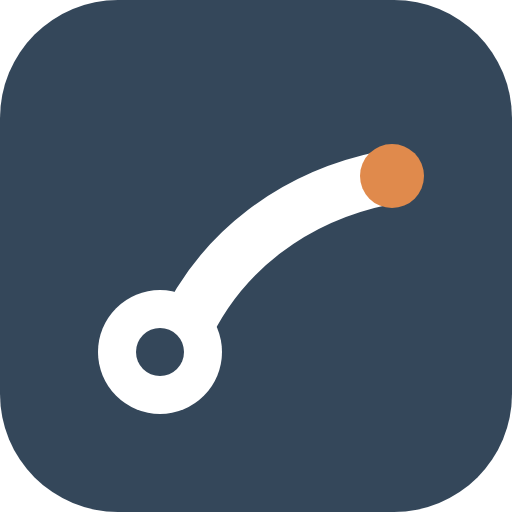
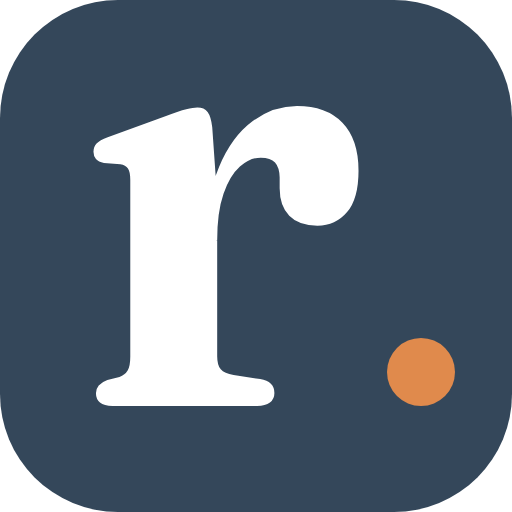
Add files via upload

Changed region(s): [[0.1562, 0.1875, 0.8438, 0.8125], [0.75, 0.6562, 0.9062, 0.8125]]

diff --git a/reda/index.html b/reda/index.html
@@ -844,7 +844,7 @@ body.kodad{padding-bottom:110px}@media(min-width:1021px){body.kodad{padding-bott
 <div id="figFull" hidden role="dialog" aria-modal="true" aria-label="Figuren i helskärm"><button type="button" id="ffStang" aria-label="Stäng">×</button><div class="ff-inne"></div></div>
 <div id="intro" hidden role="dialog" aria-modal="true" aria-label="Så fungerar din plan">
   <div class="in-kort">
-    <div class="in-topp"><img src="/bilder/reda/mark.svg" alt="" class="reda-mini"><span class="in-steg" id="inStegTxt"></span><button type="button" id="inHoppa" class="in-hoppa">Hoppa över</button></div>
+    <div class="in-topp"><span class="reda-logo"><img src="/bilder/reda/mark.svg" alt="" class="reda-logo-mark"><img src="/bilder/reda/wordmark.svg" alt="Reda" class="reda-logo-ord"></span><span class="in-steg" id="inStegTxt"></span><button type="button" id="inHoppa" class="in-hoppa">Hoppa över</button></div>
     <div class="in-bild" id="inBild"></div>
     <div class="in-inne">
       <div class="in-prickar" id="inPrickar"></div>
@@ -1767,7 +1767,7 @@ document.querySelectorAll('a[href="https://www.bokadirekt.se/places/kansei-rehab
     var n=document.getElementById('inNasta'); n.textContent=(i===INTRO.length-1)?'Jag förstår, visa planen':'Nästa';
     document.getElementById('inHoppa').hidden=false;
   }
-  function introStang(){try{localStorage.setItem('kanseiValk_'+__patKod,'1')}catch(x){} document.getElementById('intro').hidden=true; document.body.classList.remove('intro-oppen'); var st=document.getElementById('startaPass'); if(st)st.focus();}
+  function introStang(){try{localStorage.setItem('kanseiValk_'+__patKod,'1')}catch(x){} document.getElementById('intro').hidden=true; document.body.classList.remove('intro-oppen'); var st=document.getElementById('startaPass'); if(st&&st.offsetParent)st.focus(); else {var st2=document.querySelector('.pl-start'); if(st2)st2.focus();}}
   function ppFigurer(){
     document.querySelectorAll('.pp-fig[data-ark]').forEach(function(f){ if(f.querySelector('svg'))return; if(!window.__ovIkonArketyp){setTimeout(ppFigurer,60);return} f.innerHTML=window.__ovIkonArketyp(f.getAttribute('data-ark'),200); if(window.__figSkan)window.__figSkan(f); });
   }
@@ -2126,7 +2126,7 @@ document.querySelectorAll('a[href="https://www.bokadirekt.se/places/kansei-rehab
     var __ket=document.querySelector('.mp-huvud2 .kodetikett');
     var __gN=document.getElementById('mpNamn'); if(__gN)__gN.remove();
     if(__patNamn){
-      __ket.innerHTML=document.body.classList.contains('bibliotek')?'<img src="/bilder/reda/mark.svg" alt="" class="reda-mini"> Reda · klinik':'<img src="/bilder/reda/mark.svg" alt="" class="reda-mini"> Reda';
+      __ket.innerHTML='<span class="reda-logo"><img src="/bilder/reda/mark.svg" alt="" class="reda-logo-mark"><img src="/bilder/reda/wordmark.svg" alt="Reda" class="reda-logo-ord"></span>'+(document.body.classList.contains('bibliotek')?'<span class="reda-logo-till">· klinik</span>':'');
       var nEl=document.createElement('p'); nEl.id='mpNamn'; nEl.className='mp-inject'; nEl.textContent='för '+__patNamn;
       var h2El=document.getElementById('mp-titel');
       h2El.parentNode.insertBefore(nEl, h2El.nextSibling);
@@ -4386,8 +4386,8 @@ body.kodad[data-flik="oversikt"] #passBar,body.kodad[data-flik="oversikt"] #pass
   var POSER={
     brygga:function(){return {prof:'hall',dur:7,tree:[
       N(4,200,{id:'neck'},[N(5,205,{head:1},[blick(-90)])]),
-      N(10,40,{id:'uaR'},[N(9,0,{},[N(3,0,{})])]),
-      N(10,46,{id:'uaL',bak:1},[N(9,2,{bak:1})]),
+      N(10,12,{id:'uaR'},[N(9,0,{},[N(3,0,{})])]),
+      N(10,16,{id:'uaL',bak:1},[N(9,2,{bak:1})]),
       N(20,-4,{id:'torso',torso:1,acc:1},[
         N(16,-12,{id:'thR',acc:1},[N(16,138,{id:'shR'},[N(6,0,{}),N(2.5,180,{})])]),
         N(16,-10,{id:'thL',bak:1},[N(16,136,{id:'shL',bak:1},[N(6,0,{bak:1})])])
@@ -4410,14 +4410,13 @@ body.kodad[data-flik="oversikt"] #passBar,body.kodad[data-flik="oversikt"] #pass
     sidoplanka:function(){return {prof:'lang',dur:9,extra:function(){return '<rect class="rekv" x="30" y="-3" width="16" height="4" rx="2" fill="#E6D7C3" stroke="none"/>'},ey:[-38,0],tree:[
       N(10,0,{id:'faR'},[N(3,0,{})]),
       N(12,-90,{id:'uaR'},[
-        N(4,176,{id:'neck'},[N(5,178,{head:1},[blick2(-30)])]),
-        N(10,-72,{id:'uaL',bak:1},[N(9,-88,{id:'faL',bak:1})]),
+        N(4,172,{id:'neck'},[N(5,174,{head:1},[blick2(-30)])]),
         N(20,24,{id:'torso',torso:1,acc:1},[
           N(16,14,{id:'thR',acc:1},[N(16,0,{id:'shR'},[N(6,0,{})])]),
           N(16,12,{id:'thL',bak:1},[N(16,-2,{id:'shL',bak:1},[N(6,-2,{bak:1})])])
         ])
       ])
-    ],anim:{torso:4,thR:41,thL:39,shR:0,shL:-2,neck:184,uaL:-78}}},
+    ],anim:{torso:4,thR:41,thL:39,shR:0,shL:-2,neck:182}}},
     utfall:function(){return {prof:'hall',dur:7,extra:function(){return '<rect class="rekv" x="-24" y="-3" width="14" height="4" rx="2" fill="#E6D7C3" stroke="none"/>'},ex:[-30,8],tree:standT({shR:-84,thR:178,thL:96,shL:180,ftL:180,torso:-84,uaR:60,faR:30,uaL:100,faL:60,gaze:0}),anim:{shR:-70,thR:184,thL:108,shL:180,ftL:180,torso:-88}}},
     uppresning:function(){return {prof:'hall',dur:8,extra:function(){var hx=-14.5,hy=-14.5;return '<path class="rekv" d="M'+(hx-12)+' '+(hy+3)+' L'+(hx+2)+' '+(hy+3)+' M'+(hx-12)+' '+(hy+3)+' L'+(hx-12)+' '+(hy-20)+' M'+(hx-10)+' '+(hy+3)+' L'+(hx-10)+' 0"/>'},ex:[-28,0],ey:[-36,0],
       tree:standT({shR:-85,thR:175,shL:-85,thL:177,torso:-78,uaR:60,faR:10,uaL:100,faL:20,gaze:20}),anim:{shR:-90,thR:-90,shL:-90,thL:-90,torso:-90,uaR:80,faR:85,ftL:0}}},
@@ -4443,18 +4442,18 @@ body.kodad[data-flik="oversikt"] #passBar,body.kodad[data-flik="oversikt"] #pass
       N(20,-90,{id:'torso',torso:1},[N(10,100,{id:'uaL',bak:1},[N(9,95,{bak:1})]),huvud(-90,0),N(10,80,{id:'uaR'},[N(9,85,{id:'faR'})])])
     ])])])],anim:{ftR:200,shR:-90}}},
     rotband:function(){return {prof:'hall',dur:6,tree:standT({uaR:90,faR:0,hand:0,accR:1,xR:'<line class="acc" x1="3" y1="0" x2="26" y2="0" stroke-dasharray="3 3"/><circle class="acc" cx="28" cy="0" r="2.5"/>'}),anim:{faR:-32}}},
-    skuldersatt:function(){return {prof:'lang',dur:8,tree:standT({uaR:82,faR:88,uaL:98,faL:92,gaze:0}),anim:{uaR:88,uaL:104},extra:function(){return '<g class="markor" transform="translate(-6 -50)"><path class="acc" d="M0 -6 L0 6 M-4 2 L0 6 L4 2"/></g><g class="markor" transform="translate(-13 -46)"><path class="acc" d="M4 -4 L-4 4 M-4 -1 L-4 4 L1 4"/></g>'}}},
+    skuldersatt:function(){return {prof:'lang',dur:8,tree:standT({torso:-84,neck:-72,uaR:78,faR:86,uaL:94,faL:92,gaze:0,accR:1}),anim:{torso:-92,neck:-96,uaR:96,uaL:106}}},
     framatlyft:function(){return {prof:'hall',dur:7,tree:standT({uaR:85,faR:85,accR:1}),anim:{uaR:-15,faR:-15}}},
-    vagglid:function(){return {prof:'hall',dur:7,extra:function(){return '<line class="rekv acc" x1="30" y1="-70" x2="30" y2="0"/>'},ex:[-12,30],ey:[-70,0],tree:standT({uaR:-38,faR:-88,hand:-88,accR:1,uaL:-36,faL:-88}),anim:{uaR:-62,faR:-88,uaL:-60,faL:-88}}},
+    vagglid:function(){return {prof:'hall',dur:7,extra:function(){return '<rect class="rekv" x="12" y="-72" width="5" height="72" fill="#D5DCE1" stroke="none"/>'},ex:[-12,20],ey:[-72,0],tree:standT({torso:-88,uaR:-8,faR:-92,hand:-92,accR:1,uaL:-4,faL:-92,gaze:-10}),anim:{torso:-84,uaR:-52,faR:-92,uaL:-48,faL:-92}}},
     vaggklattring:function(){return {prof:'lang',dur:9,extra:function(){return '<line class="rekv acc" x1="30" y1="-70" x2="30" y2="0"/>'},ex:[-12,30],ey:[-70,0],tree:standT({uaR:-30,faR:-72,hand:-72,accR:1,uaL:105,faL:100}),anim:{uaR:-68,faR:-88}}},
     pendel:function(){return {prof:'jamn',dur:2.6,extra:function(){return '<path class="rekv" d="M8 -30 L34 -30 L34 0"/>'},ex:[-10,34],ey:[-52,0],tree:standT({torso:-35,neck:-40,gaze:60,uaL:20,faL:75,uaR:78,faR:78,accR:1}),anim:{uaR:102,faR:102}}},
     pinne:function(){return {prof:'hall',dur:7,tree:standT({uaR:90,faR:0,hand:0,accR:1,uaL:90,faL:0,xR:'<line class="acc" x1="-16" y1="-1" x2="22" y2="-1"/>'}),anim:{faR:-28}}},
     handduk:function(){return {prof:'hall',dur:7,tree:standT({uaR:-115,faR:70,hand:70,uaL:110,faL:-100,accR:1,xL:'<line class="acc" x1="0" y1="0" x2="-20" y2="-16"/>'}),anim:{uaL:100,faL:-96}}},
-    nacke:function(){return {prof:'hall',dur:5.5,tree:standT({neck:-84,gaze:0}),anim:{neck:-98},extra:function(){return '<g class="markor" transform="translate(-16 -63)"><path class="acc" d="M8 0 L-6 0 M-2 -4 L-6 0 L-2 4"/></g>'},ex:[-24,10]}},
+    nacke:function(){return {prof:'hall',dur:5.5,tree:standT({neck:-70,gaze:0,uaR:95,faR:95,uaL:100,faL:100}),anim:{neck:-100},ex:[-24,10]}},
     nick:function(){return {prof:'hall',dur:7,tree:[N(4,180,{id:'neck'},[N(5,180,{head:1},[blick(-90)])]),supine({})],anim:{neck:166}}},
     andning:function(){return {prof:'andas',dur:10,tree:[N(4,180,{id:'neck'},[N(5,180,{head:1},[blick(-90)])]),supine({})],anim:{},extra:function(){return '<g transform="translate(10 0)" data-anim=\'{"kind":"scale","a0":1,"a1":1.5}\'><path class="rekv acc" d="M-8 -1 q8 -9 16 0"/></g>'}}},
     rodd:function(){return {prof:'hall',dur:5,tree:standT({uaR:0,faR:0,hand:0,accR:1,uaL:0,faL:0,xR:'<line class="acc" x1="3" y1="0" x2="26" y2="0" stroke-dasharray="3 3"/>'}),anim:{uaR:55,faR:-5,uaL:55,faL:-5}}},
-    brostrot:function(){return {prof:'hall',dur:7,ex:[-10,40],ey:[-42,0],tree:[quadTree({accArm:1,gaze:-60})],anim:{uaR:195,faR:195}}},
+    brostrot:function(){return {prof:'hall',dur:7,ex:[-10,40],ey:[-48,0],tree:[quadTree({accArm:1,uaR:70,faR:-127,gaze:-40})],anim:{uaR:-70,faR:110,neck:150}}},
     fotboll:function(){return {prof:'jamn',dur:5,extra:function(){var hx=-14.5,hy=-14.5;return '<path class="rekv" d="M'+(hx-12)+' '+(hy+3)+' L'+(hx+2)+' '+(hy+3)+' M'+(hx-12)+' '+(hy+3)+' L'+(hx-12)+' '+(hy-20)+' M'+(hx-10)+' '+(hy+3)+' L'+(hx-10)+' 0"/>'},ex:[-28,0],ey:[-36,0],
       tree:[N(16,-85,{id:'shL',bak:1},[N(16,175,{id:'thL',bak:1},[
         N(16,10,{id:'thR'},[N(16,78,{id:'shR',acc:1},[N(6,0,{acc:1,x:'<circle class="acc" cx="3" cy="5" r="5.5"/>'})])]),
@@ -5572,7 +5571,7 @@ html.i-ram .wrap{padding-top:0}
 @media(max-width:560px){.reda-hero .reda-mark{width:54px;height:54px}.reda-hero .reda-ordbild{height:2.6rem}.reda-tag{font-size:1.25rem}}
 .reda-by{display:none}
 .reda-lockup{display:flex;align-items:center;gap:14px;margin:0 0 6px}
-.reda-mark{width:52px;height:52px;border-radius:12px;box-shadow:0 4px 14px rgba(13,123,111,.25)}
+.reda-mark{width:52px;height:52px;border-radius:12px;box-shadow:0 4px 14px rgba(52,71,90,.22)}
 .reda-ord{margin:0!important;font-family:var(--display);font-weight:500;font-size:2.6rem;letter-spacing:-.02em;line-height:1;display:flex;align-items:baseline}
 .reda-punkt{display:inline-block;width:.22em;height:.22em;border-radius:50%;background:var(--teal);margin-left:.06em;transform:translateY(-.02em)}
 .reda-by{font-family:var(--mono);font-size:.62rem;letter-spacing:.2em;text-transform:uppercase;color:var(--dim);align-self:flex-end;padding-bottom:6px}
@@ -5970,6 +5969,44 @@ body.kodad:not(.bibliotek) .aktiv details[data-ovid] .ov-figrad .ovfig{width:72p
 .pl-spelvisa span{background:rgba(52,71,90,.9)}
 .ff-knapp.pa{background:#E08A4C;border-color:#E08A4C;color:#fff}
 .ff-inne .pl-cue[data-fas="upp"]{background:#F0A46A;color:#1B2E38}
+</style>
+
+
+<style id="v118-intro-kort">
+.reda-logo{display:inline-flex;align-items:center;gap:.4em;vertical-align:middle;line-height:1}
+.reda-logo-mark{width:26px;height:26px;border-radius:7px;display:block}
+.reda-logo-ord{height:19px;width:auto;display:block;transform:translateY(2px)}
+.reda-logo-till{font-family:var(--mono);font-size:.62rem;letter-spacing:.12em;text-transform:uppercase;color:var(--dim);margin-left:8px}
+.kodetikett{display:flex;align-items:center;gap:6px}
+/* introt: ett format, innehållet rättar sig */
+.in-kort{height:min(640px,calc(100dvh - 48px));display:grid!important;grid-template-rows:auto 200px 1fr;overflow:hidden}
+.in-topp{height:52px;box-sizing:border-box;align-items:center}
+.in-topp .in-steg{flex:1;margin-left:10px}
+.in-bild{margin:0!important;border-radius:0!important;background:#1B2E38!important;padding:10px 28px!important;display:flex;align-items:center;justify-content:center;height:200px;box-sizing:border-box}
+.in-bild svg{max-width:300px;height:100%;width:auto}
+.in-bild svg .lem,.in-bild svg .torso{stroke:#EEF2F5!important}
+.in-bild svg circle.huvud{fill:#EEF2F5!important;stroke:#EEF2F5!important}
+.in-bild svg .bak{stroke:#6E8290!important}
+.in-bild svg circle.huvud.bak{fill:#6E8290!important;stroke:#6E8290!important}
+.in-bild svg .acc{stroke:#9CC4DC!important}
+.in-bild svg circle[fill="#F7F9FA"]{fill:#1B2E38!important}
+.in-bild svg line[stroke="#C9CFD4"]{stroke:#3A4C56!important}
+.in-bild svg .skugga{opacity:.35}
+.in-bild svg .rekv{stroke:#4C5F69!important}
+.in-inne{display:grid;grid-template-rows:auto auto auto auto 1fr auto;overflow:hidden;min-height:0}
+.in-inne p#inText{margin:0 0 8px}
+.in-punkter{align-content:start;overflow:auto;min-height:0}
+.in-rad{align-self:end}
+@media(max-height:700px){.in-kort{grid-template-rows:auto 160px 1fr}.in-bild{height:160px}}
+/* på Träning och Logg är kortet en rad, planen syns direkt */
+@media(max-width:899px){
+  body.kodad:not(.bibliotek)[data-flik="traning"] .mp-huvud2,body.kodad:not(.bibliotek)[data-flik="logg"] .mp-huvud2{padding:14px 18px!important;gap:6px}
+  body.kodad:not(.bibliotek)[data-flik="traning"] .mp-huvud2 #mp-titel,body.kodad:not(.bibliotek)[data-flik="logg"] .mp-huvud2 #mp-titel{font-size:1.2rem;margin:0}
+  body.kodad:not(.bibliotek)[data-flik="traning"] .mp-huvud2 #mpNamn,body.kodad:not(.bibliotek)[data-flik="logg"] .mp-huvud2 #mpNamn{font-size:1rem;margin:0}
+  body.kodad:not(.bibliotek)[data-flik="traning"] .mp-huvud2 .mp-knappar,body.kodad:not(.bibliotek)[data-flik="logg"] .mp-huvud2 .mp-knappar,
+  body.kodad:not(.bibliotek)[data-flik="traning"] .mp-huvud2 .mp-sign,body.kodad:not(.bibliotek)[data-flik="logg"] .mp-huvud2 .mp-sign,
+  body.kodad:not(.bibliotek)[data-flik="traning"] .mp-huvud2 #mp-under,body.kodad:not(.bibliotek)[data-flik="logg"] .mp-huvud2 #mp-under{display:none!important}
+}
 </style>
 
 </body>

diff --git a/reda/sw.js b/reda/sw.js
@@ -1,5 +1,5 @@
 /* Kansei Övningsbanken · offline-cache · v73 */
-var V='kansei-reda-v117';
+var V='kansei-reda-v121';
 self.addEventListener('install',function(e){
   self.skipWaiting();
   e.waitUntil(caches.open(V).then(function(c){return c.addAll(['./','./index.html','./manifest.webmanifest','./ikon/reda-192.png','./ikon/reda-512.png'])}));
